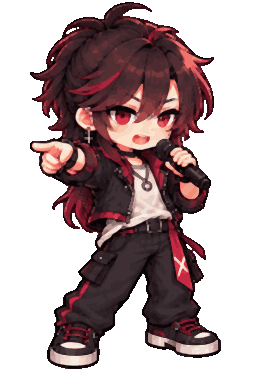
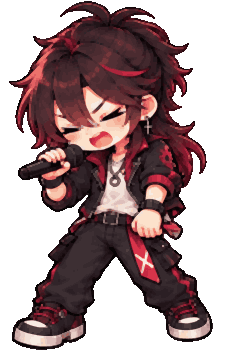
feat: add pose art for five characters and a LAY height class
다섯 인물의 자세 그림 20장(인물당 4개)을 넣는다.

- 자세 등급에 LAY(누운 자세)를 추가한다. 들어온 그림이 서 있는 자세의 0.52 높이로
  그려져 있어 그 값을 따른다 (기본 3.6u 기준 ≈1.9u / 60px)
- 같은 자세 번호에 파일이 둘 이상이면 이름 순으로 첫 번째를 쓴다. 전에는 순서가
  정해져 있지 않았다
- 개발 서버 감시기가 복사 중 임시 파일(.~tmp 등)을 무시한다. Windows에서 아직 쓰는 중인
  파일을 열려다 EBUSY가 나면 개발 서버가 통째로 죽었다

확인: 네 인물 모두 자세 4개가 켜지고 눌렀을 때 각자 그림으로 바뀐다. 콘솔 에러 없음.

diff --git a/src/assets/registry.ts b/src/assets/registry.ts
@@ -51,7 +51,7 @@ const characterArt = import.meta.glob('./characters/*.png', { eager: true, impor
 for (const [path, url] of Object.entries(characterArt)) {
   // C01_FULL.png -> CHARACTER_C01_FULL
   // C01_POSE_1_FULL.png -> CHARACTER_C01_POSE_1_FULL  (자세 그림)
-  const match = /\/(C\d{2})_((?:POSE_[A-Za-z0-9]+_)?(?:FULL|SIT|BUST|THUMB))\.png$/.exec(path);
+  const match = /\/(C\d{2})_((?:POSE_[A-Za-z0-9]+_)?(?:FULL|SIT|LAY|BUST|THUMB))\.png$/.exec(path);
   if (match) assetRegistry[`CHARACTER_${match[1]}_${match[2]}`] = url;
 }
 
@@ -124,10 +124,16 @@ export function characterPoses(id: string): string[] {
   return [...found].sort();
 }
 
-/** 이 인물의 이 자세 그림 키. 등급(FULL/SIT…)은 파일이 정하므로 둘 다 찾아본다. */
+/**
+ * 이 인물의 이 자세 그림 키. 등급(FULL/SIT/LAY…)은 파일이 정하므로 찾아서 쓴다.
+ * 같은 번호에 파일이 둘 이상이면 이름 순으로 첫 번째를 쓴다 (FULL < LAY < SIT).
+ * 어느 쪽을 쓸지 정하려면 남길 파일만 두면 된다.
+ */
 export function characterPoseKey(id: string, pose: string): AssetKey | undefined {
   const prefix = `CHARACTER_${id}_POSE_${pose}_`;
-  return Object.keys(assetRegistry).find((k) => k.startsWith(prefix) && assetRegistry[k]);
+  return Object.keys(assetRegistry)
+    .filter((k) => k.startsWith(prefix) && assetRegistry[k])
+    .sort()[0];
 }
 
 /**

diff --git a/vite.config.ts b/vite.config.ts
@@ -10,5 +10,12 @@ export default defineConfig({
   resolve: {
     alias: { '@': fileURLToPath(new URL('./src', import.meta.url)) },
   },
-  server: { port: 5173 },
+  server: {
+    port: 5173,
+    watch: {
+      // 그림을 폴더에 떨어뜨릴 때 복사 프로그램이 만드는 임시 파일은 감시하지 않는다.
+      // Windows에서 아직 쓰는 중인 파일을 열려다 EBUSY가 나면 개발 서버가 통째로 죽는다.
+      ignored: ['**/*.~tmp', '**/*.crdownload', '**/*.partial', '**/~$*'],
+    },
+  },
 });

diff --git a/src/world/assets/testSprite.ts b/src/world/assets/testSprite.ts
@@ -21,6 +21,8 @@ export const POSE_HEIGHT_CLASS: Record<string, number> = {
   FULL: 1,
   // 기본 3.6u일 때 3.0u(≈95px). 비율로 둬서 랩에서 키를 바꾸면 같이 따라간다.
   SIT: 3.0 / 3.6,
+  // 누운 자세. 들어온 그림들이 서 있는 자세의 0.52 높이로 그려져 있어 그 값을 따른다 (≈1.9u / 60px).
+  LAY: 0.52,
 };
 
 /** 에셋 키 끝에서 자세 등급을 읽는다. 모르면 서 있는 것으로 본다. */
